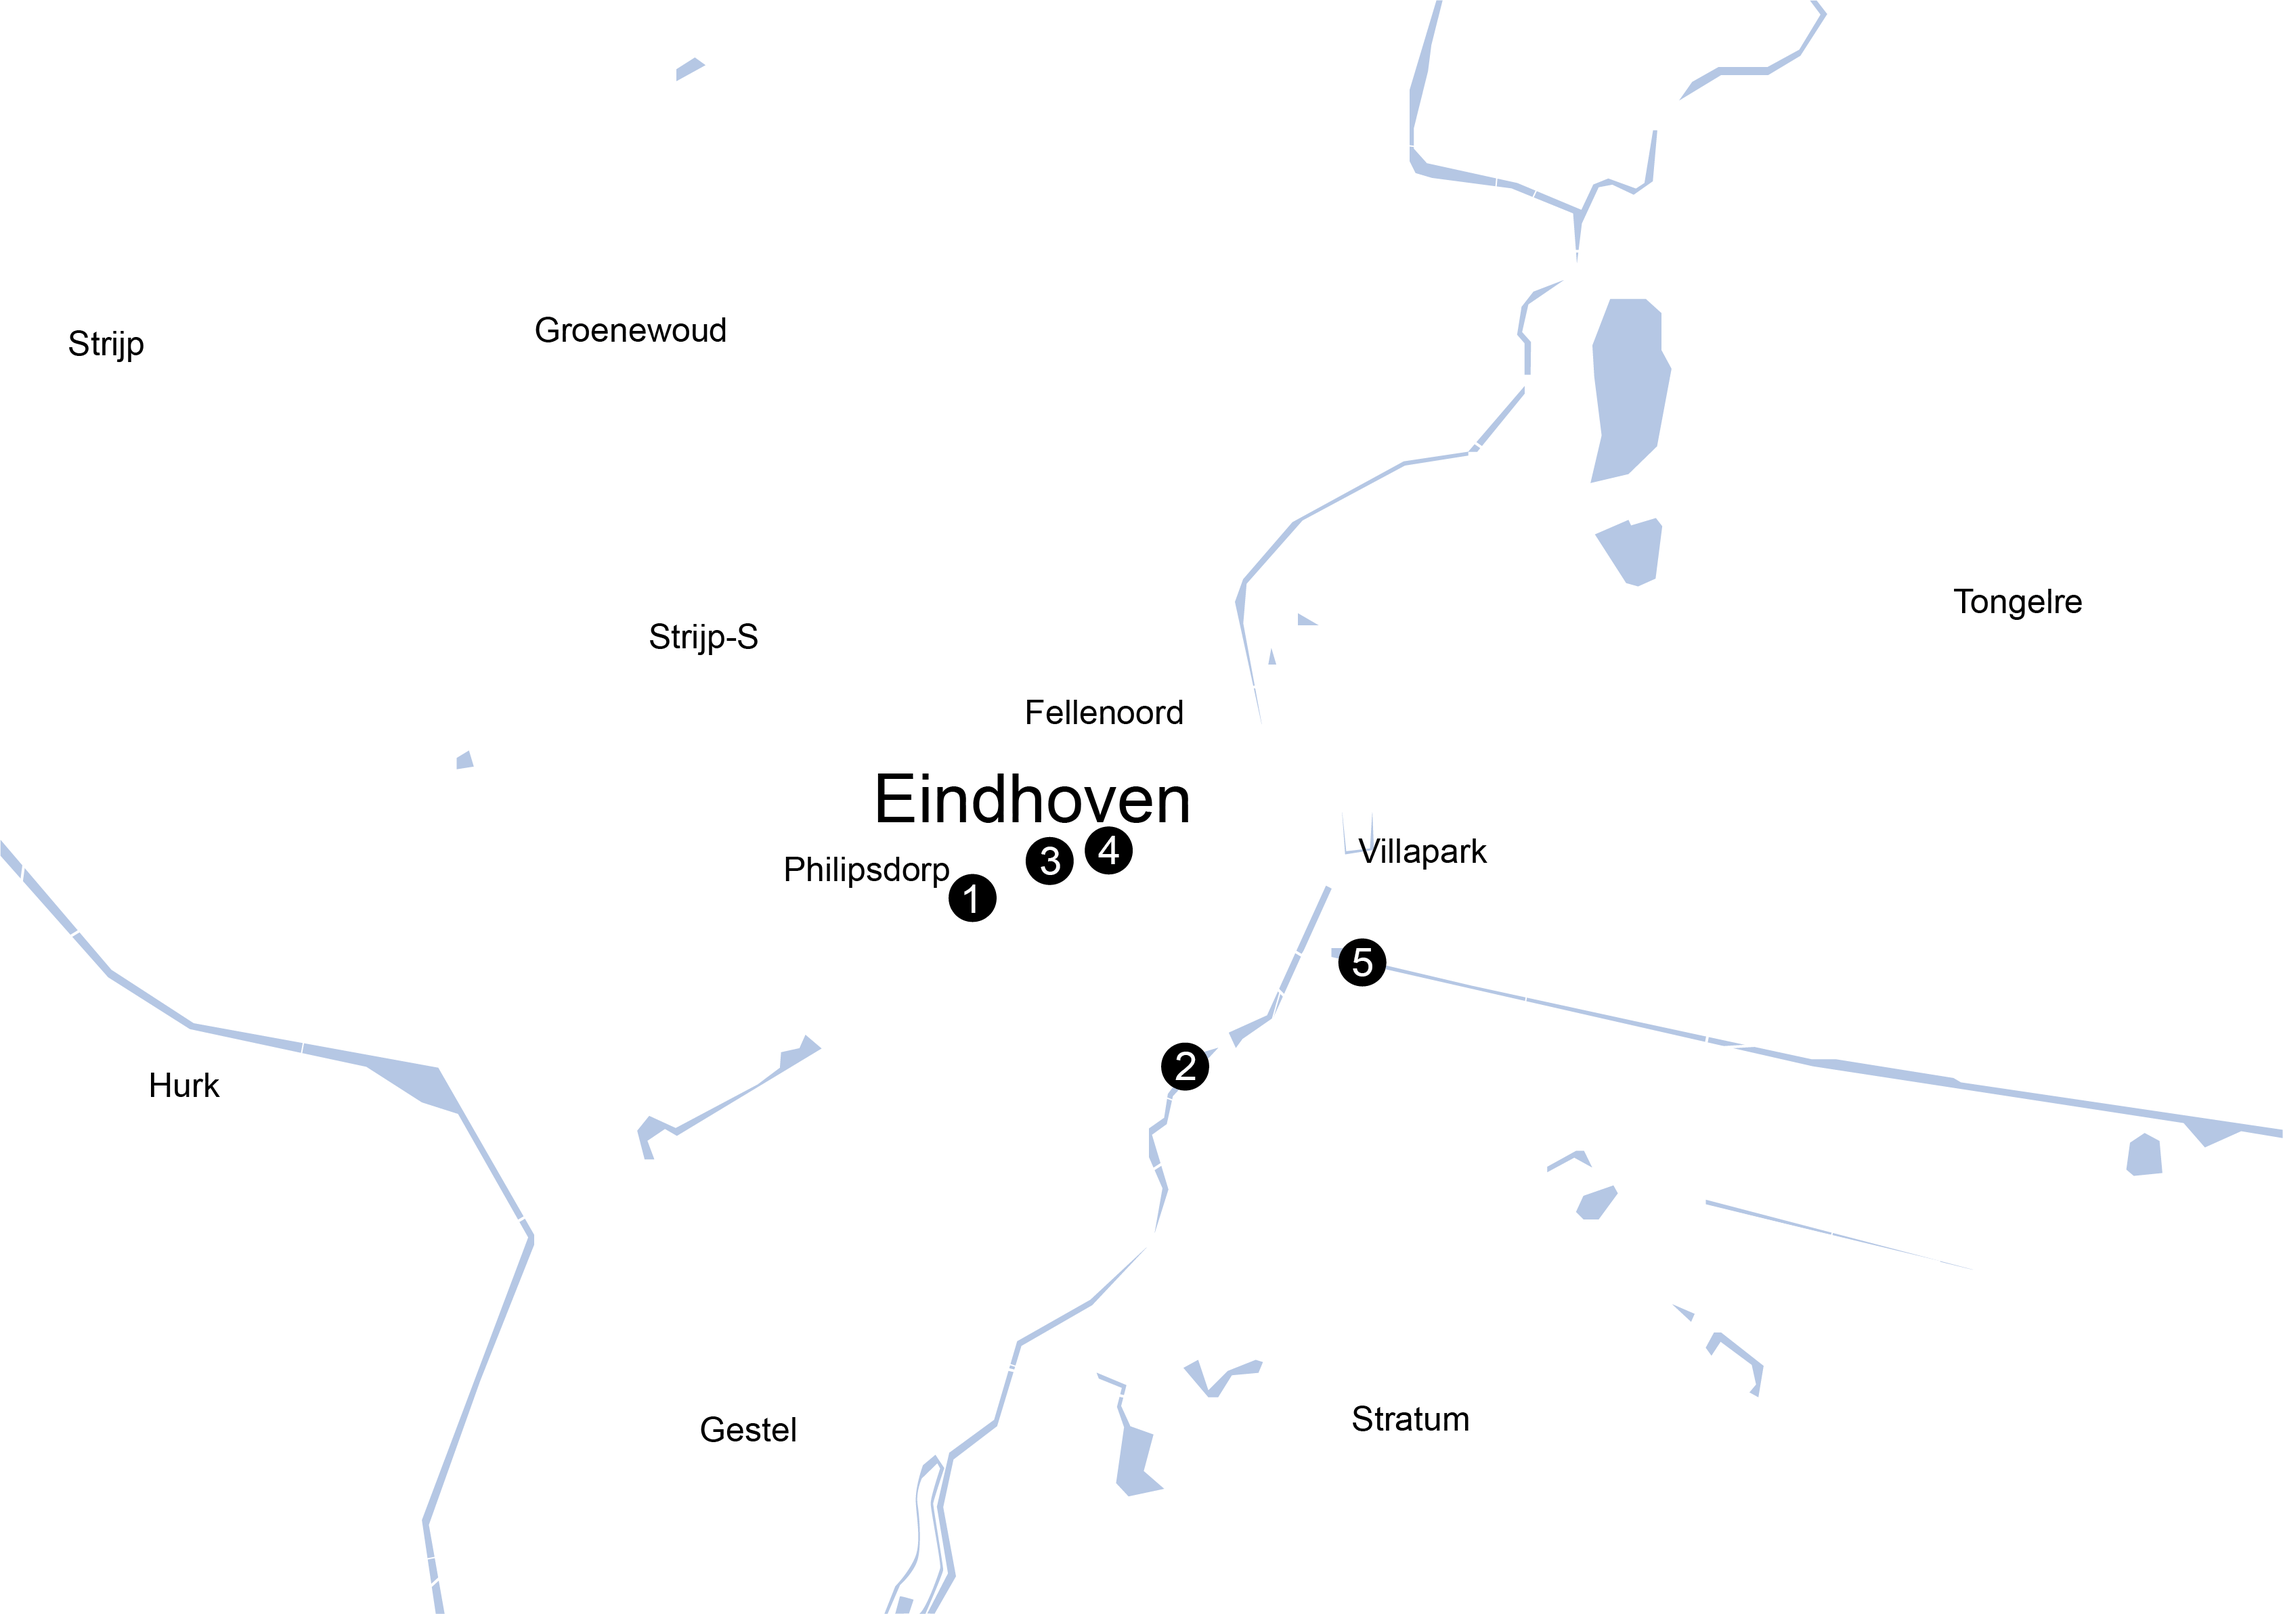
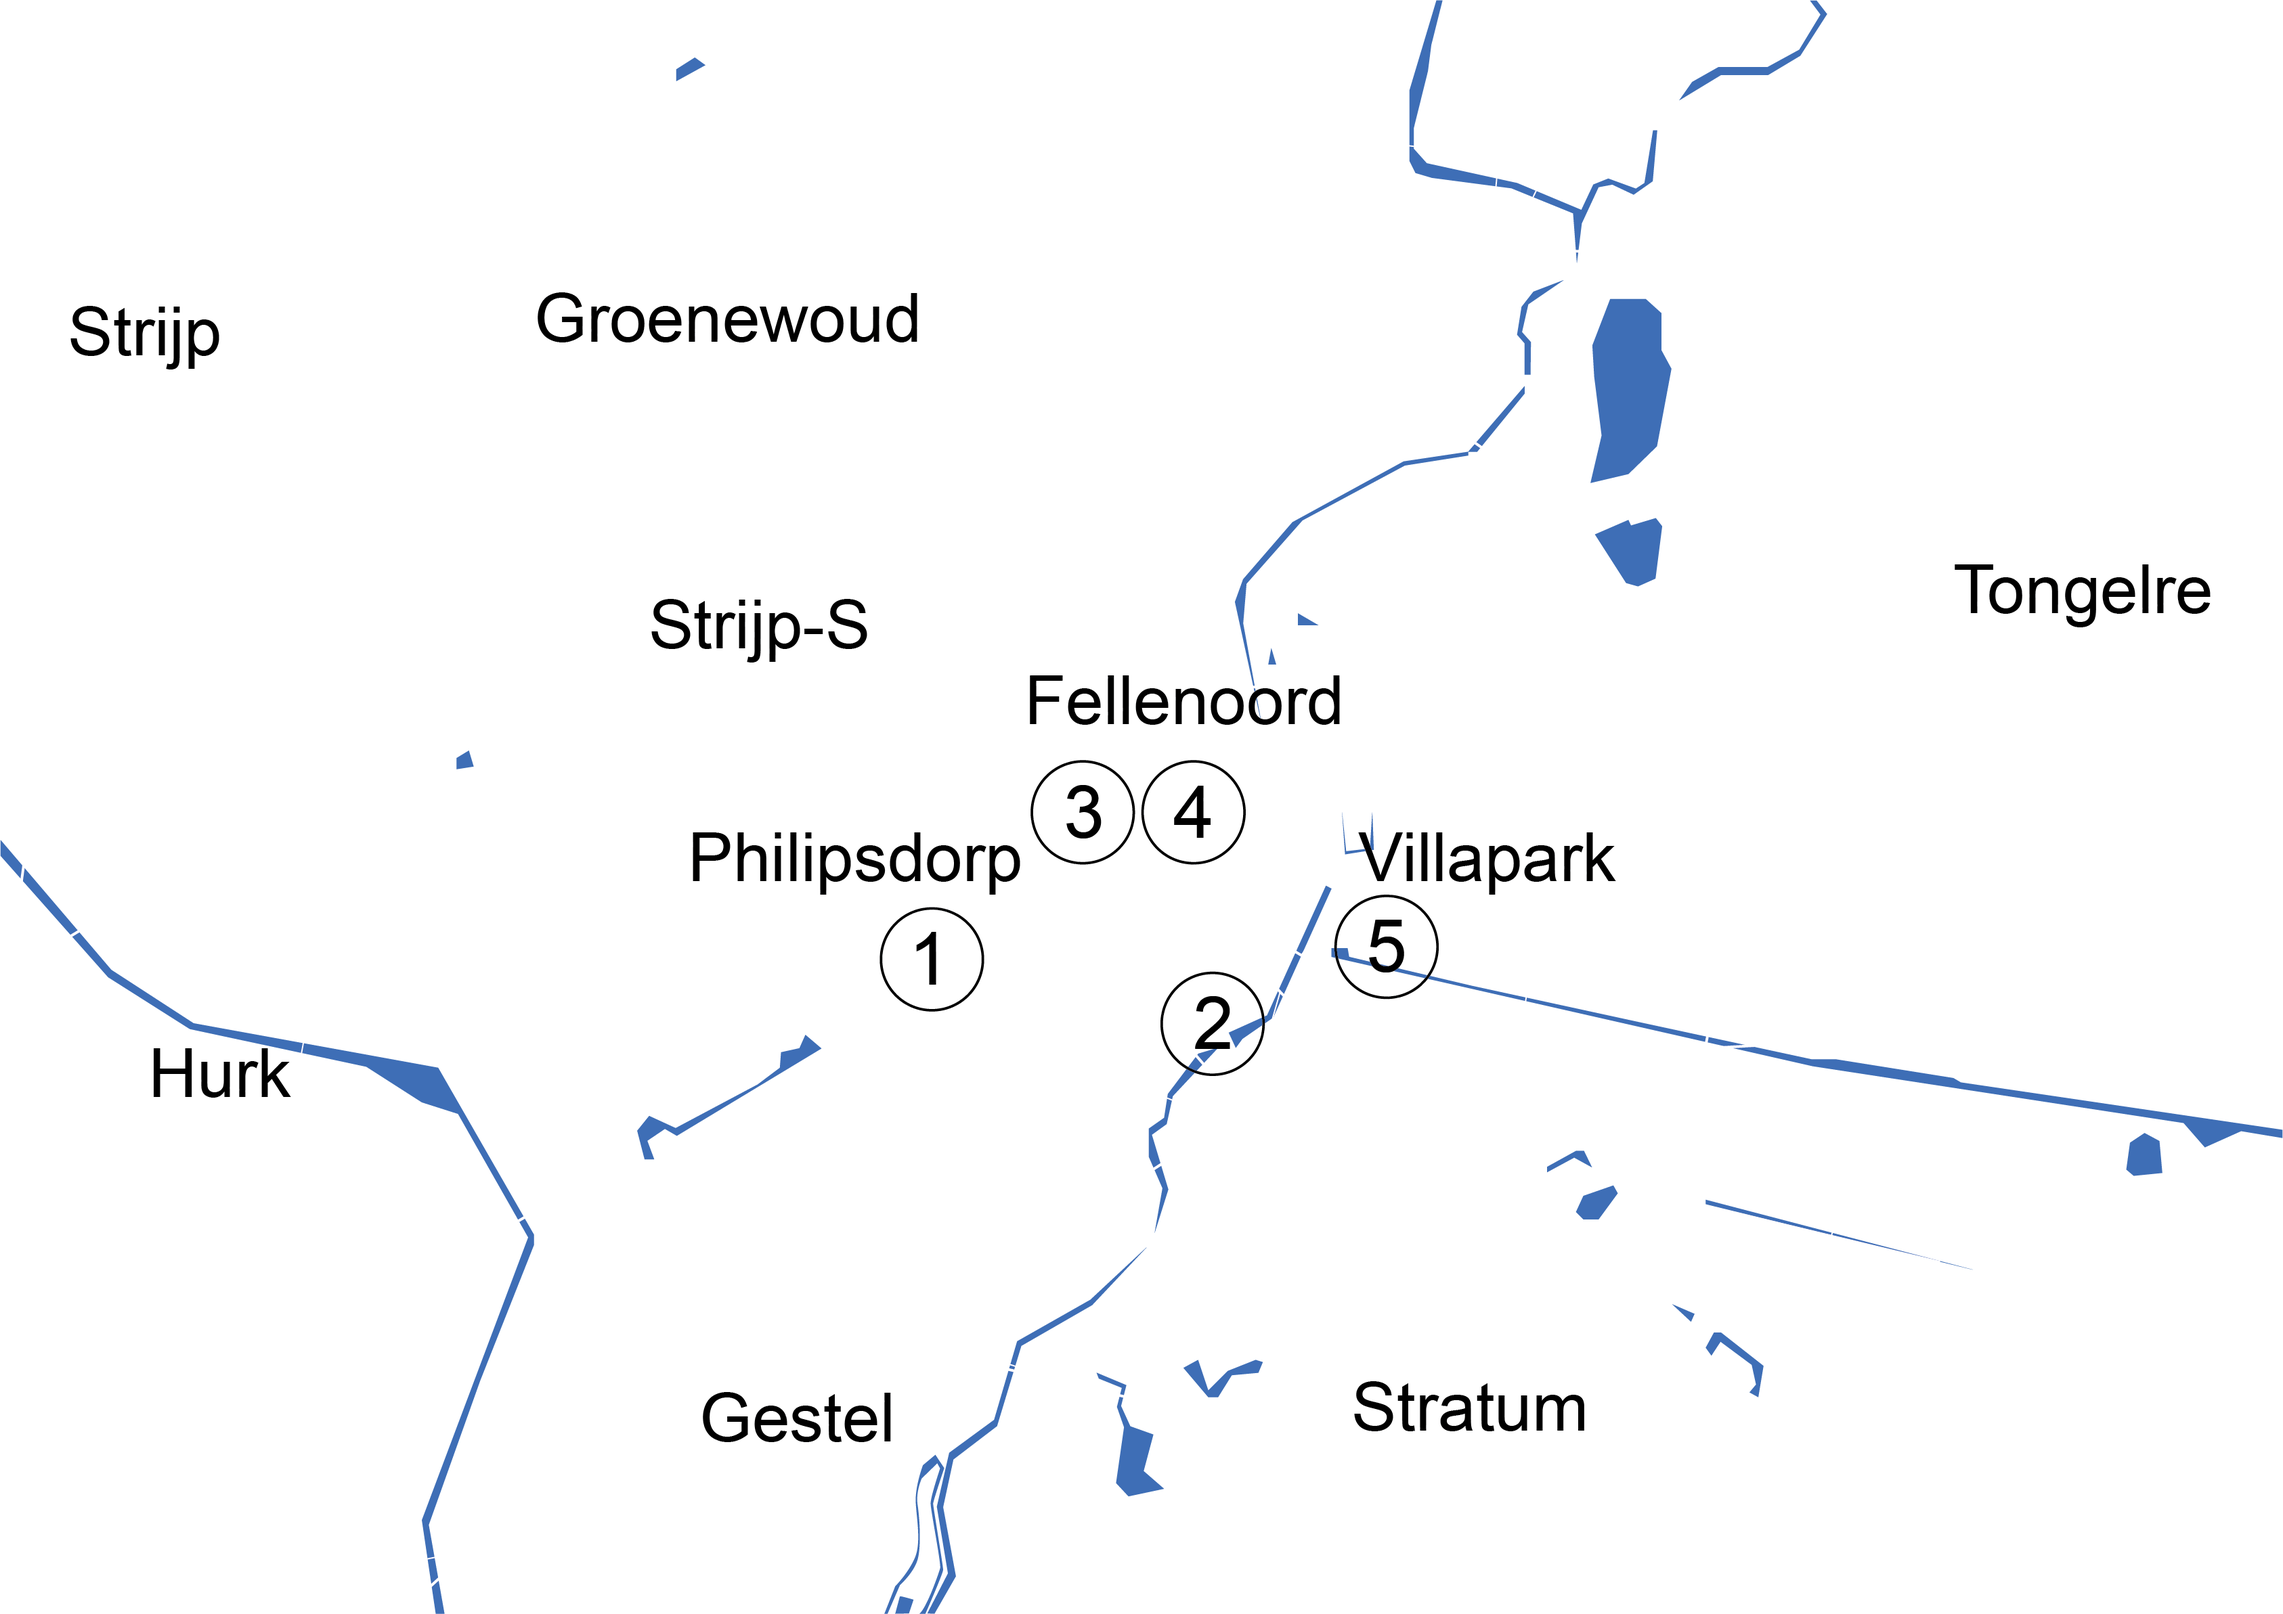
Add files via upload

diff --git a/index.html b/index.html
@@ -23,7 +23,7 @@
     
     
 <p class="engraved">
-    <span class="embossed"><i>Walk between places</i></span> is a planned walking tour of Hallein, Austria in Eindhoven, The Netherlands. <i>Walk between places</i> is a research project exploring how information can be understood through materiality. At each site, the participant is encouraged to experience similar sounds and images of Hallein, Austria.
+    <span class="embossed"><i>Walk between places</i></span> is a walking tour with multiple sites to see and hear of Hallein, Austria in Eindhoven, The Netherlands. <i>Walk between places</i> is a research project exploring how information can be understood through materiality. At each site, the listener is encouraged to experience similar sounds and images of Hallein.
 <br><br>
 </p>
     
@@ -42,7 +42,7 @@ Go to Clausplein 4,
             Site two: Where is Hallein?<br>
 Go to Anne Frankplantsoen,
 Eindhoven<br>
-& listen and watch<br>
+& listen and watch to<br>
 <video width="320" height="180" controls>
   <source src="2.mp4" type="video/mp4">
 </video><br><br>
@@ -50,7 +50,7 @@ Eindhoven<br>
         Site three: What does Hallein look like?<br>
 Go to Lichtplein,
 Eindhoven<br>
-& listen and watch<br>
+& listen and watch to<br>
 <video width="320" height="180" controls>
   <source src="3.mp4" type="video/mp4">
 </video><br><br>
@@ -77,8 +77,8 @@ Go to Kanaaldijk-Zuid 50,
     </p>
     
     <p class="engraved">
-     Map of Eindhoven, The Netherlands
-
+     Map of Eindhoven, The Netherlands<br>
+     with the five sites documented.
      <span class="image"> <img src="6.png" ></span> <br><br>
   </p>
     
